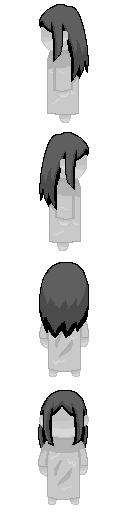
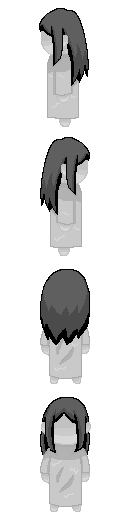
fix enemy

Changed region(s): [[0.2812, 0.2188, 0.7188, 1.0], [0.2812, 0.0, 0.6875, 0.1875]]

diff --git a/characters/enemy.py b/characters/enemy.py
@@ -27,6 +27,8 @@ class Enemy:
         self.detection_radius = ENEMY_DETECTION_RADIUS
         self.safe_zone_radius = SAFE_ZONE_RADIUS
         
+        # Position system (เหมือน player)
+        self.logic_pos = [x, y]  # ตำแหน่ง 32x32 ทางตรรกะสำหรับการคำนวณเดินตาม Grid
         self.is_moving = False
         self.target_pos = [x, y]
         self.turn_delay = 0
@@ -75,16 +77,17 @@ class Enemy:
                 'walk': {'tex': None, 'cols': 1, 'rows': 4}
             }
 
-        # Row mapping (matches standard spritesheet order)
-        rows = {'down': 2, 'left': 0, 'right': 1, 'up': 3}
-        self.anim_row_map = {'idle': rows, 'walk': rows}
+        # Row mapping (แยกแถวระหว่าง idle และ walk)
+        idle_rows = {'down': 1, 'left': 3, 'right': 2, 'up': 0}
+        walk_rows = {'down': 1, 'left': 3, 'right': 2, 'up': 0}
+        self.anim_row_map = {'idle': idle_rows, 'walk': walk_rows}
 
     def _init_graphics(self):
-        """Create the Kivy canvas instructions for the enemy."""
+        """Create the Kivy canvas instructions for the enemy (เหมือน player)."""
         with self.canvas:
-            # DEBUG: Hitbox visualization
-            Color(1, 1, 0, 0.2)
-            self.debug_rect = Rectangle(pos=(self.x, self.y), size=(ENEMY_WIDTH, ENEMY_HEIGHT))
+            # DEBUG: แถบสีเหลืองจำลองแสดงว่า Hitbox (จุดปะทะจริง) มีขนาดแค่ 16x16 ไม่เกิน 1 ช่อง
+            Color(1, 1, 0, 0.3)
+            self.debug_rect = Rectangle(pos=self.logic_pos, size=(TILE_SIZE, TILE_SIZE))
             
             # Sprite appearance
             if self.idle_texture:
@@ -92,7 +95,10 @@ class Enemy:
             else:
                 Color(1, 0, 0, 1) # Fallback to red
             
-            self.rect = Rectangle(pos=(self.x, self.y), size=(ENEMY_WIDTH, ENEMY_HEIGHT))
+            # จุดเกิดตอนแรก จัดแกน X ให้ตัวละครกึ่งกลางบล็อก และดันแกน Y ขึ้นเล็กน้อยเพื่อให้เท้าแตะกลางแผ่น
+            offset_x = (TILE_SIZE - ENEMY_WIDTH) / 2
+            offset_y = TILE_SIZE / 2  # เผื่อพื้นที่ว่างด้านล่างของรูป เพื่อดันให้ตัวละครขึ้นมายืนตรงกลางช่องพอดี
+            self.rect = Rectangle(pos=(self.logic_pos[0] + offset_x, self.logic_pos[1] + offset_y), size=(ENEMY_WIDTH, ENEMY_HEIGHT))
 
     def destroy(self):
         """Cleans up canvas instructions and events when the enemy is removed."""
@@ -148,14 +154,10 @@ class Enemy:
             dist = self.calculate_distance(player_pos)
             if dist <= self.detection_radius:
                 self.chase_player_grid(player_pos, reaper_pos)
-                    
-        # Sync visuals
-        self.rect.pos = (self.x, self.y)
-        self.debug_rect.pos = (self.x, self.y)
         
     def calculate_distance(self, target_pos):
-        """Calculates distance between enemy and target."""
-        return math.sqrt((target_pos[0] - self.x)**2 + (target_pos[1] - self.y)**2)
+        """Calculates distance between enemy and target (เหมือน player)."""
+        return math.sqrt((target_pos[0] - self.logic_pos[0])**2 + (target_pos[1] - self.logic_pos[1])**2)
         
     def chase_player_grid(self, player_pos, reaper_pos=None):
         """Implements grid-based chasing logic with safe zone detection."""
@@ -163,8 +165,8 @@ class Enemy:
             self.turn_delay -= 1
             return
 
-        dx = player_pos[0] - self.x
-        dy = player_pos[1] - self.y
+        dx = player_pos[0] - self.logic_pos[0]
+        dy = player_pos[1] - self.logic_pos[1]
         move_x, move_y = 0, 0
         new_dir = self.direction
         
@@ -183,11 +185,13 @@ class Enemy:
                 self.frame_index = 0
                 self.turn_delay = 6 
             else:
-                # Check for safe zone entry
-                new_x, new_y = self.x + move_x, self.y + move_y
+                # Check safe zone
+                new_x = self.logic_pos[0] + move_x
+                new_y = self.logic_pos[1] + move_y
+                
                 if reaper_pos:
                     r_center_x, r_center_y = reaper_pos[0] + TILE_SIZE/2, reaper_pos[1] + TILE_SIZE/2
-                    e_center_x, e_center_y = new_x + ENEMY_WIDTH/2, new_y + ENEMY_HEIGHT/2
+                    e_center_x, e_center_y = new_x + TILE_SIZE/2, new_y + TILE_SIZE/2
                     dist_to_reaper = math.sqrt((e_center_x - r_center_x)**2 + (e_center_y - r_center_y)**2)
                     
                     if dist_to_reaper < self.safe_zone_radius:
@@ -196,26 +200,36 @@ class Enemy:
                 self.start_move(move_x, move_y)
 
     def start_move(self, dx, dy):
-        """Sets the target position and begins movement."""
-        self.target_pos = [self.x + dx, self.y + dy]
+        """Sets the target position and begins movement (เหมือน player)."""
+        self.target_pos = [self.logic_pos[0] + dx, self.logic_pos[1] + dy]
         self.is_moving = True
 
     def continue_move(self):
-        """Smoothly interpolates movement towards the target grid position."""
-        tx, ty = self.target_pos
+        """Smoothly interpolates movement towards the target grid position (เหมือน player)."""
+        cur_x, cur_y = self.logic_pos
+        tar_x, tar_y = self.target_pos
+
+        if cur_x < tar_x: cur_x = min(cur_x + self.speed, tar_x)
+        elif cur_x > tar_x: cur_x = max(cur_x - self.speed, tar_x)
+        if cur_y < tar_y: cur_y = min(cur_y + self.speed, tar_y)
+        elif cur_y > tar_y: cur_y = max(cur_y - self.speed, tar_y)
+
+        self.logic_pos = [cur_x, cur_y]
         
-        if self.x < tx: self.x = min(self.x + self.speed, tx)
-        elif self.x > tx: self.x = max(self.x - self.speed, tx)
+        # อัปเดตกราฟิกสี่เหลี่ยมตามพิกัด x, y (เหมือน player)
+        offset_x = (TILE_SIZE - ENEMY_WIDTH) / 2
+        offset_y = TILE_SIZE / 2
+        self.rect.pos = (cur_x + offset_x, cur_y + offset_y)
         
-        if self.y < ty: self.y = min(self.y + self.speed, ty)
-        elif self.y > ty: self.y = max(self.y - self.speed, ty)
+        # อัปเดตกรอบเช็คการชน (Hitbox) สีเหลืองตามการเดินให้เห็นชัดๆ ว่าแค่ 1 ช่อง
+        self.debug_rect.pos = self.logic_pos
         
-        if self.x == tx and self.y == ty:
+        if cur_x == tar_x and cur_y == tar_y:
             self.is_moving = False
             
     def check_player_collision_logic(self, player_pos, tile_size):
-        """Check for collision with player using logic coordinates."""
-        return (self.x < player_pos[0] + tile_size and
-                self.x + ENEMY_WIDTH > player_pos[0] and
-                self.y < player_pos[1] + tile_size and
-                self.y + ENEMY_HEIGHT > player_pos[1])
+        """Check for collision with player using logic coordinates (เหมือน player)."""
+        return (self.logic_pos[0] < player_pos[0] + tile_size and
+                self.logic_pos[0] + TILE_SIZE > player_pos[0] and
+                self.logic_pos[1] < player_pos[1] + tile_size and
+                self.logic_pos[1] + TILE_SIZE > player_pos[1])

diff --git a/settings.py b/settings.py
@@ -52,5 +52,5 @@ REAPER_SPEED = 1.5
 # Enemy Settings
 ENEMY_WIDTH = 32
 ENEMY_HEIGHT = 32
-ENEMY_SPEED = WALK_SPEED
+ENEMY_SPEED = WALK_SPEED + 0.5
 ENEMY_DETECTION_RADIUS = 200
